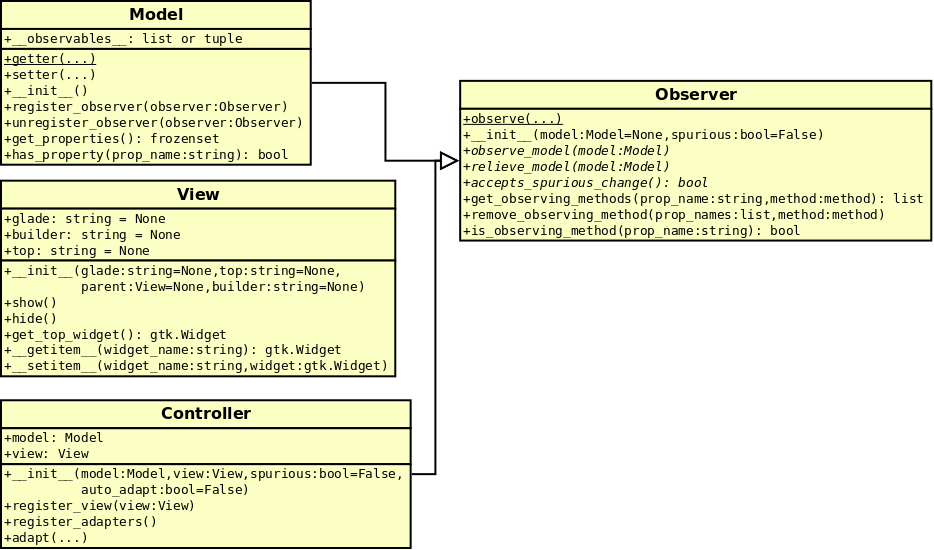
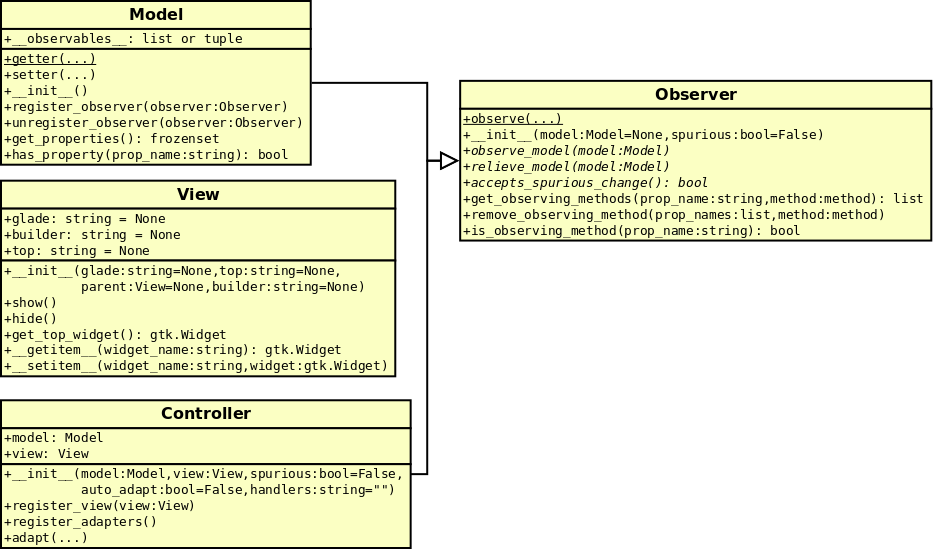
DOCS Added documentation about automatic connection of signals (ticket:33) Made also some cleanup and some renaming of sections.

Changed region(s): [[0.4036, 0.1236, 0.4657, 0.8655], [0.2484, 0.8655, 0.4036, 0.8964]]

diff --git a/gtkmvco/docs/quickstart/index.rst b/gtkmvco/docs/quickstart/index.rst
@@ -623,10 +623,12 @@ Controllers are the most complex structures that are intended to:
 2. Connect one model and one or more views, without making them know.
 3. Observe the model they are connected to.
 4. Provide handlers for gtk signals (declared in the views connected to it)
-5. Setting up widgets that depend on the model. For example setting up
+5. Optionally autoconnects View's widget signals to its methods, with
+   a simple naming convention (new in version 1.99.2).
+6. Setting up widgets that depend on the model. For example setting up
    of ``gtk.TreeView`` whose ``gtk.TreeModel`` lives within the model
    (see :ref:`gtk.TreeView`)
-6. Setting up :ref:`adapters`
+7. Setting up :ref:`adapters`
 
 This is the typical structure of a controller::
 
@@ -664,7 +666,7 @@ This is the typical structure of a controller::
      # ------------------------------------------------------------
      #      GTK Signal handlers
      # ------------------------------------------------------------
-     def on_button_clicked(self, button):
+     def on_button__clicked(self, button):
          # ...
          return
  
@@ -766,18 +768,23 @@ How does *gtkmvc* click on this architecture?
 3. The controller is responsible for connecting the view parts with the
    model parts.
 
-The view is based on the glade file shown here:
+The view is based on the glade file shown here (in `GtkBuilder` format):
 
 .. image:: images/mvc_glade.png
 
 This is the full code for this example::
 
  import gtk
+
+ # ----------------------------------------------------------------------
  from gtkmvc import View
  class MyView(View):
-    glade = "mvc.glade"
+    builder = "mvc.glade"
     pass # end of class
+ # ----------------------------------------------------------------------
 
+
+ # ----------------------------------------------------------------------
  from gtkmvc import Model
  class MyModel (Model):
     # ...
@@ -790,28 +797,31 @@ This is the full code for this example::
  developing GUI applications with
  Python and the pygtk toolkit."""
         # fills in some data
-    self.text_buf.set_text(text)
+        self.text_buf.set_text(text)
         for n, word in enumerate(text.split()):
             self.list_store.append([n+1,word])
             pass
         return
 
     pass # end of class
+ # ----------------------------------------------------------------------
 
+
+ # ----------------------------------------------------------------------
  from gtkmvc import Controller
  class MyCtrl (Controller):
     # ...
 
     def register_view(self, view):
         text_view = view['textview']
-    # connects the buffer and the text view
-    text_view.set_buffer(self.model.text_buf)
+        # connects the buffer and the text view
+        text_view.set_buffer(self.model.text_buf)
 
-    # connects the treeview to the liststore
-    tv = view['treeview']
+        # connects the treeview to the liststore
+        tv = view['treeview']
         tv.set_model(self.model.list_store)        
 
-    # creates the columns of the treeview                          
+        # creates the columns of the treeview                          
         rend = gtk.CellRendererText()
         col = gtk.TreeViewColumn('Col1', rend, text=0)
         tv.append_column(col)
@@ -819,8 +829,10 @@ This is the full code for this example::
         rend = gtk.CellRendererText()
         col = gtk.TreeViewColumn('Col2', rend, text=1)
         tv.append_column(col)
-    return
+        return
+
     pass # end of class
+ # ----------------------------------------------------------------------
 
  # running triplet
  m = MyModel()
@@ -849,7 +861,7 @@ ideal place when setting up adapters. ::
 
  from gtkmvc import View
  class MyView (View):
-    glade = "example.glade"
+    builder = "example.glade"
     pass # end of class
  
 Glade file ``example.glade`` is shown here in ``glade-3``.

diff --git a/gtkmvco/docs/manual/mvc.rst b/gtkmvco/docs/manual/mvc.rst
@@ -71,13 +71,13 @@ Controller
  
    A Controller perfectly knows the interfaces of the connected Model
    and View, and knows both the state and presentation (*GUI*)
-   semantics. A Controller is associated to one Model (*use a*
-   relationship), and in the current implementation is associated
-   only to one View (*has a* relationship). A Controller may
-   grow in size, thus it is important to avoid including into the
-   Controller code and information that should resize into the
-   Model. Also Controller can be simplified by decomposing them into
-   sub-controllers, each controlling a subset of the View. 
+   semantics. A Controller is associated to one Model, and to one
+   View, however the Model and the View can be associated to multiple
+   controllers. 
+
+   Controllers tend to grow in size, however they can be decomposed
+   into sub-controllers, each controlling a subset of the View or the
+   Model.
 
 
 Two particular mechanisms make the isolation between Model and
@@ -99,14 +99,17 @@ View be split into sets (not necessarily partitions) and each set is
 controller by a sub-controller.
 
 After a model and a view have been instantiated (model and view are
-*independent*, a controller can be constructed by passing them.
+*independent*), a controller can be constructed by passing them.
 
-From there on, the Controller can access the model, and teh view state
-(the set of contained widgets). When the view registers itself with a
-Controller, all signals are also automatically connected to the
-corresponding methods inside the Controller.  Connection in this case
-is performed by means of an implicit syntax rule, which binds a signal
-name to a corresponding method name.
+From there on, the Controller can access to the model and the view
+state (the set of contained widgets). When the view registers itself
+within a Controller, all signals are also automatically connected to
+the corresponding methods inside the Controller. Connection in this
+case is performed by means of an implicit syntax rule, which binds a
+signal name to a corresponding method name.  
+
+This automatic connection can be done either by following the `glade`
+or `GtkBuilder` specification, or by following a naming convention.
 
 In sections :ref:`VR:D` and :ref:`VR:EX` more details and an example are
 presented, to show how the View registration mechanism can be

diff --git a/gtkmvco/docs/manual/observers.rst b/gtkmvco/docs/manual/observers.rst
@@ -15,9 +15,11 @@ Also :ref:`gtkmvc.Model<MODELS>` derives from :class:`gtkmvc.Observer`, as
 in hierarchies of models parents sometimes observe children.
 
 .. Important::
+
    Since version 1.99.1, observers were deeply revised. If you have
-   experience with older versions, you will find many changes. In
-   particular the usage of name-based notification methods like
+   experience with older versions, you will find many changes,
+   although all changes are backward compatible. In particular the
+   usage of name-based notification methods like
    ``property_<name>_value_change`` is discouraged, but still
    supported for backward compatibility. At the end of this section
    all discouraged/deprecated features about observers are listed.

diff --git a/gtkmvco/docs/manual/op_logical.rst b/gtkmvco/docs/manual/op_logical.rst
@@ -2,6 +2,8 @@
 Logical Observable Properties
 =============================
 
+.. versionadded:: 1.99.1
+
 *Logical* OPs are properties whose values are not necessarily
 stored in the model, but which are read and written by a pair of
 getter/setter methods.
@@ -238,6 +240,8 @@ in the example had to be adapted.
 
 Dependencies among OPs
 ----------------------
+
+.. versionadded:: 1.99.2
 
 If the value of a logical OP `p` is calculated out of other OPs, `p`
 *depends* on the other OPs. In the general case, logical OPs depend on

diff --git a/gtkmvco/docs/manual/impl.rst b/gtkmvco/docs/manual/impl.rst
@@ -45,7 +45,7 @@ implementation which depends on the application semantics.
      class.
    * Construction of columns and renderers of
      :class:`gtk.TreeView` widgets.
-   * Instantiation of *adapters*.
+   * Instantiation of :ref:`Adapters`.
 
 
 The :ref:`fig:ClassDiagram` gives an overview about a few of the main

diff --git a/gtkmvco/docs/manual/index.rst b/gtkmvco/docs/manual/index.rst
@@ -11,7 +11,7 @@ Contents:
    motiv
    arch
    mvco   
-   impl
+   mvc_impl
    op
    observers
    exam

diff --git a/gtkmvco/docs/manual/adapt.rst b/gtkmvco/docs/manual/adapt.rst
@@ -1,3 +1,5 @@
+.. _Adapters:
+
 Adapters
 ********
 
